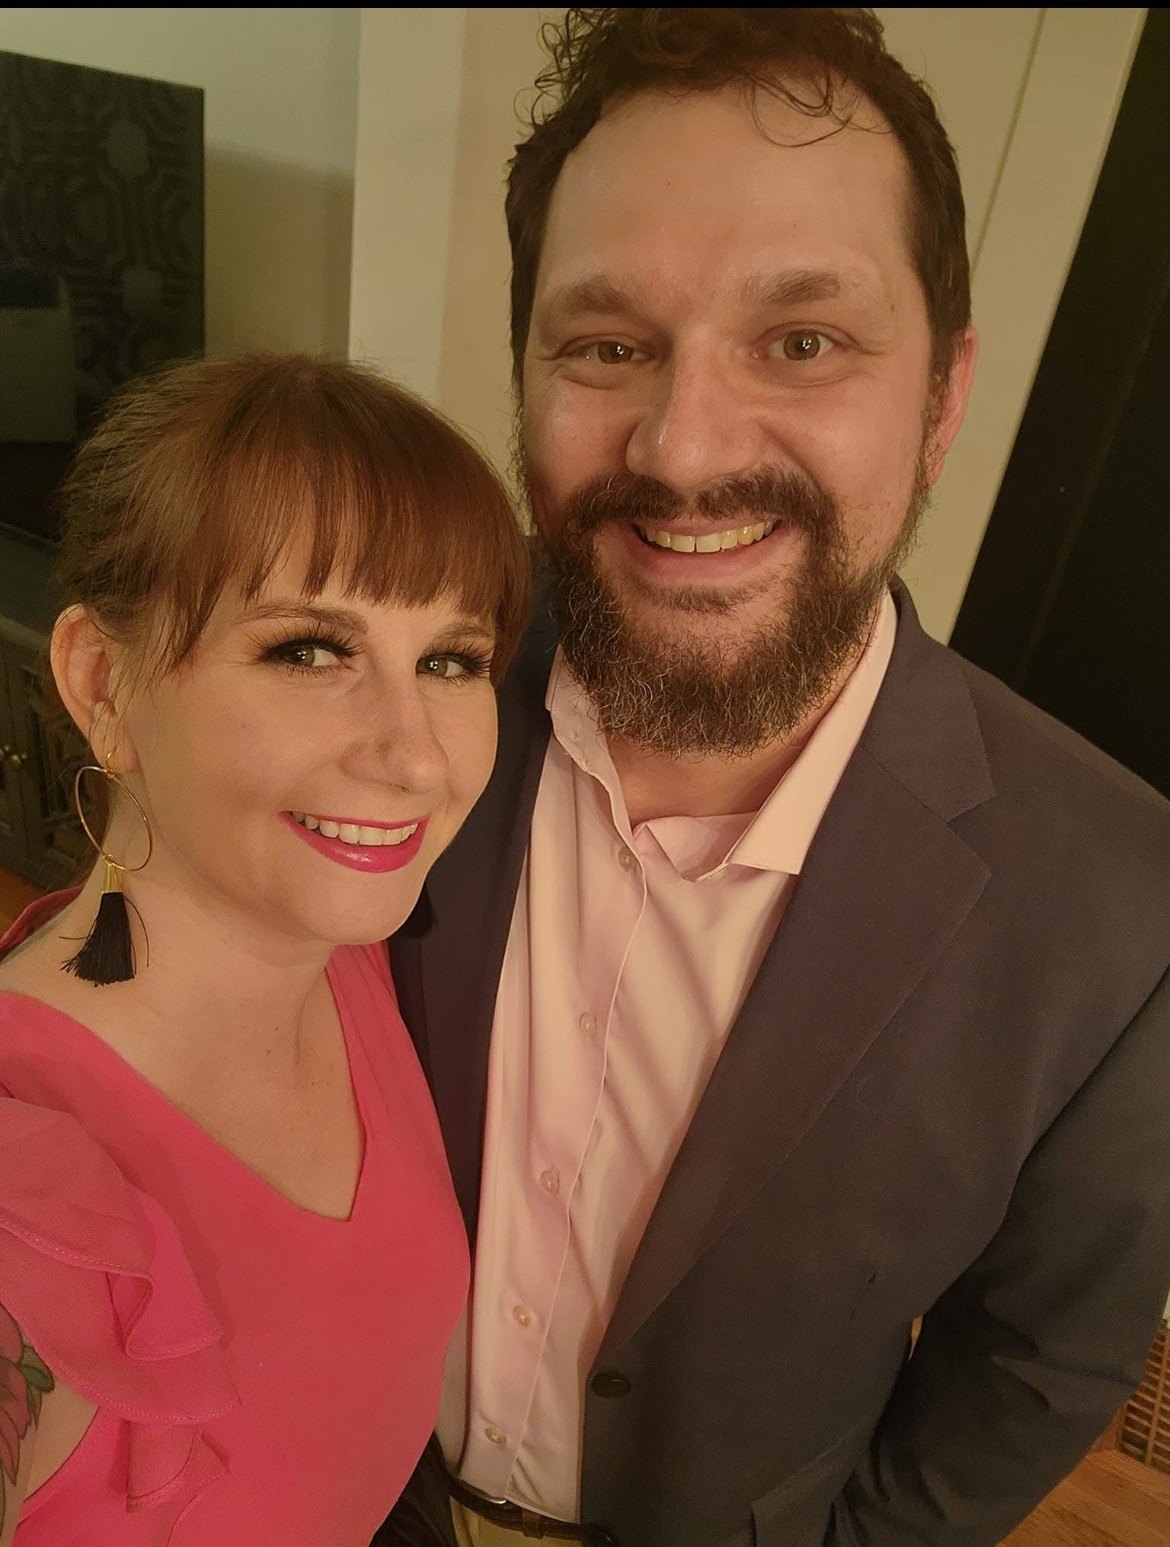
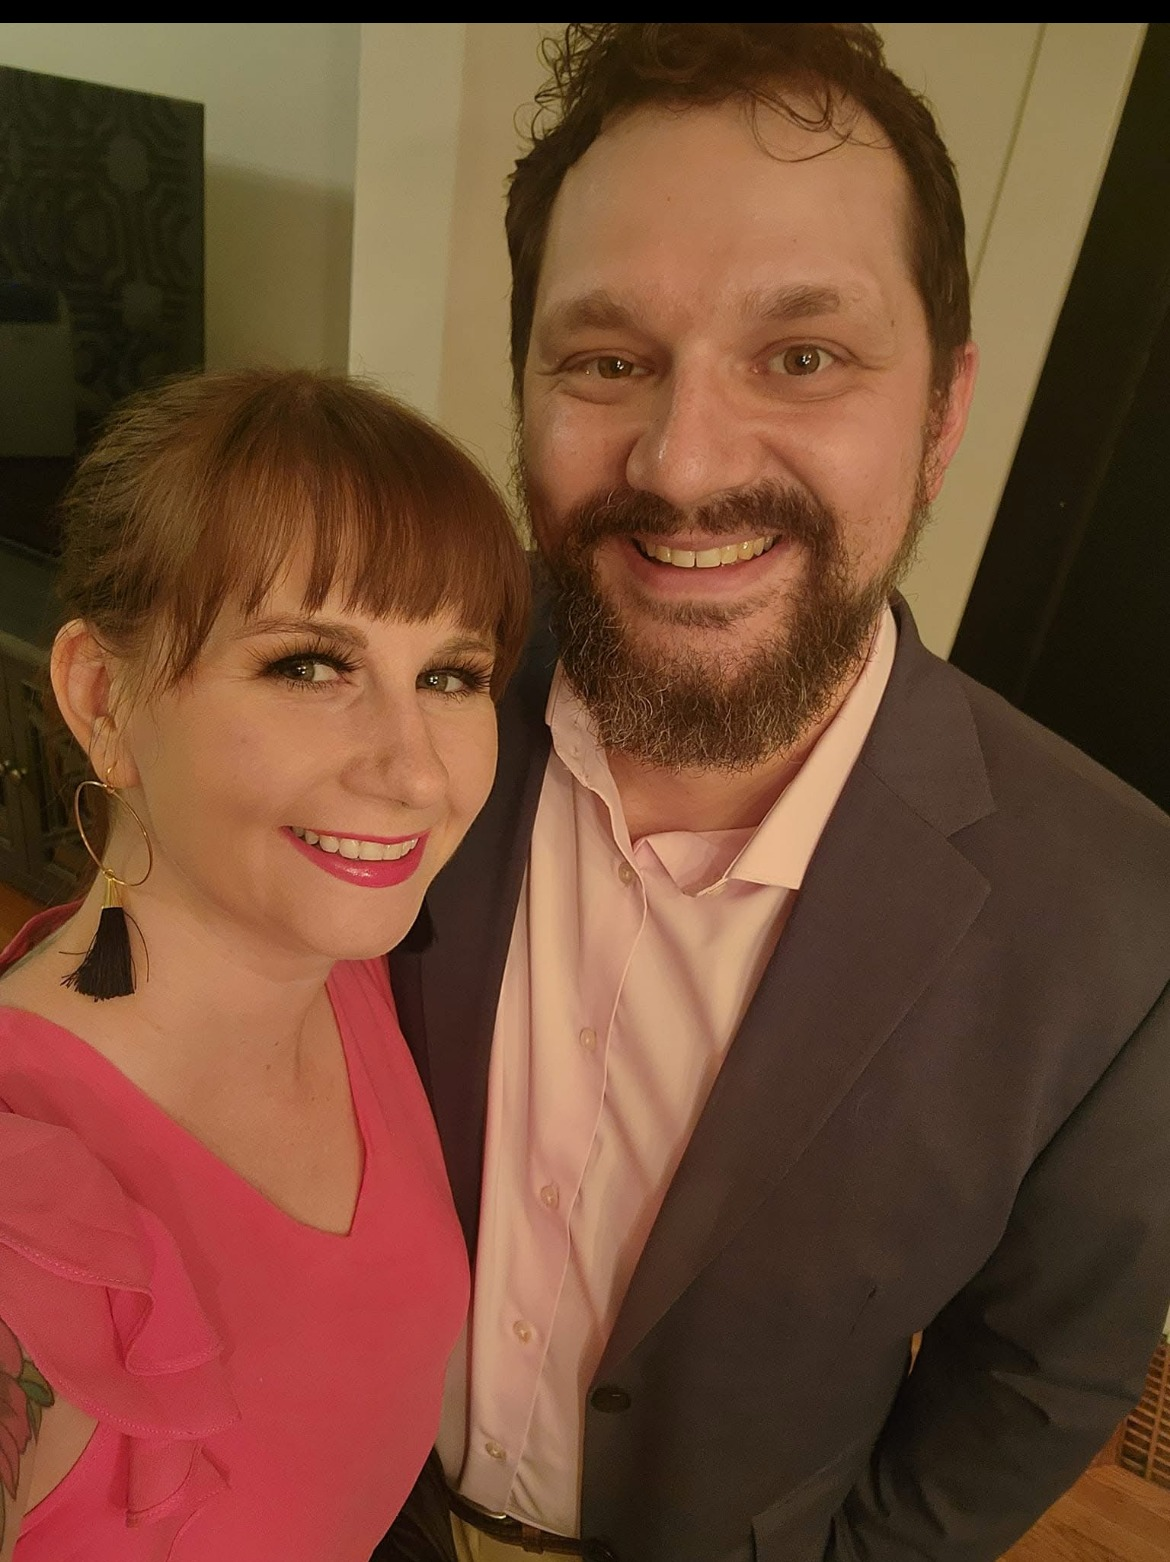
Add files via upload

diff --git a/andrew-fulton.html b/andrew-fulton.html
@@ -42,8 +42,8 @@
 </section>
 
 <div class="profile-bio">
-  <div class="profile-gallery">
-    <img src="andrew-fulton-casual.jpeg" alt="Andrew Fulton" style="grid-column:1 / -1;max-width:420px;margin:0 auto;">
+  <div class="profile-gallery" style="margin-top:0;">
+    <img src="andrew-fulton-casual.jpeg" alt="Andrew Fulton" style="grid-column:1 / -1;max-width:380px;margin:0 auto;aspect-ratio:3/4;">
   </div>
   <div class="callout">
     <h4>Full bio coming soon</h4>
